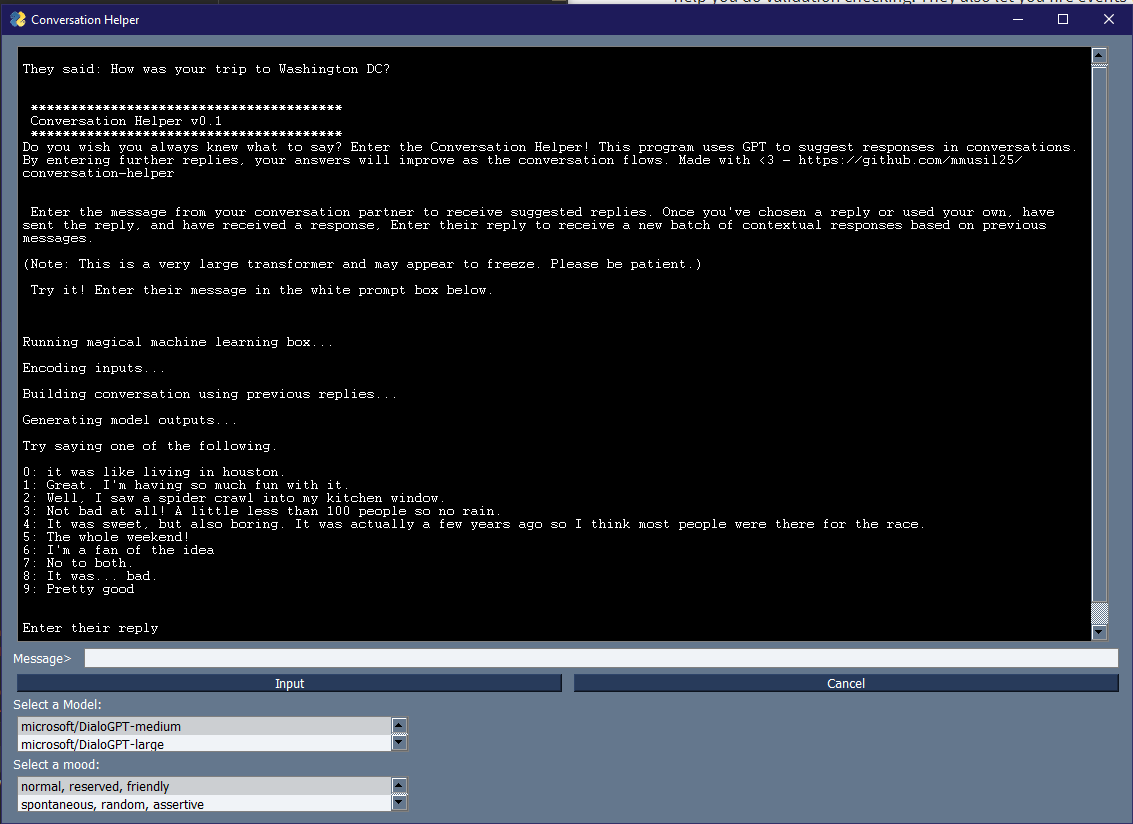
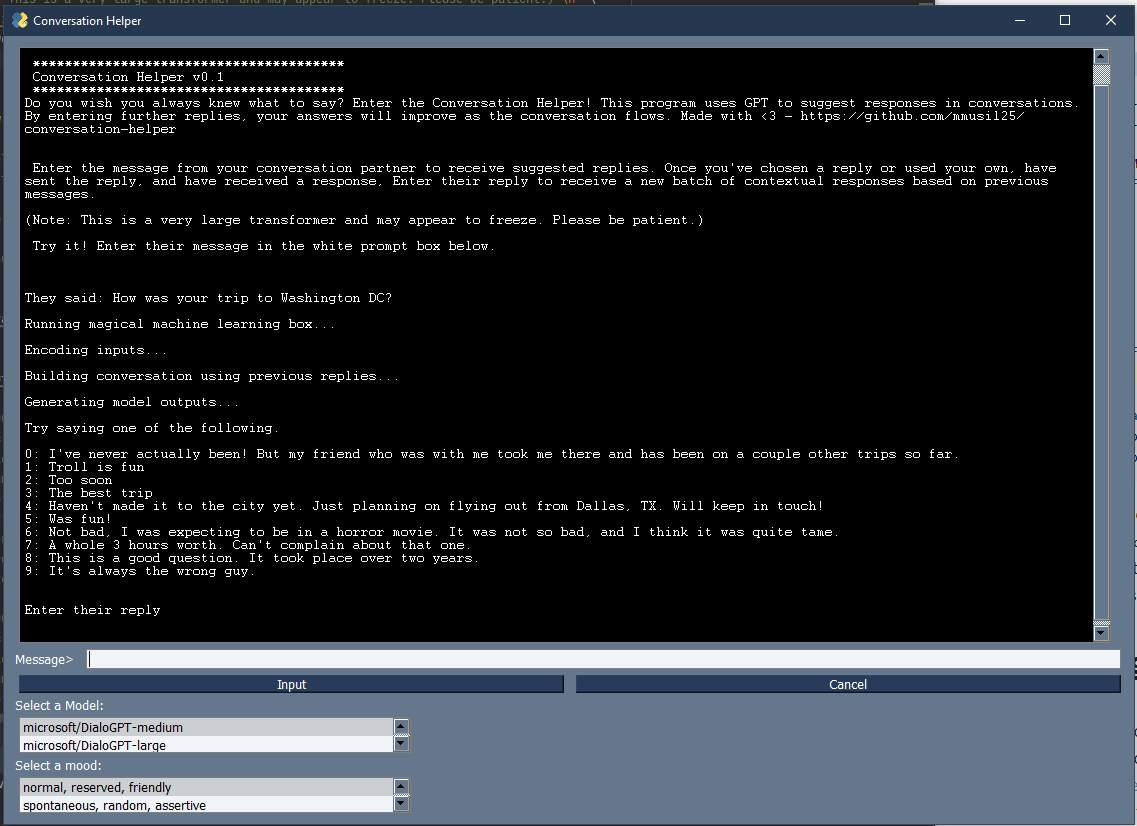
Change screenshot. Fix bug.

diff --git a/GUI.py b/GUI.py
@@ -93,7 +93,8 @@ def entry_point():
                      "reply to receive a new batch of contextual responses based on previous messages. \n"\
                      "\n(Note: This is a very large transformer and may appear to freeze. Please be patient.) \n" \
                       "\n Try it! Enter their message in the white prompt box below.\n\n\n"
-    window['-MLINE-'].update(welcome_string)
+    window['-MLINE-'].update(welcome_string, append=True, autoscroll=True)
+    window['-MLINE-'].update("", append=True, autoscroll=True)
 
     while True:
         event, values = window.read()
